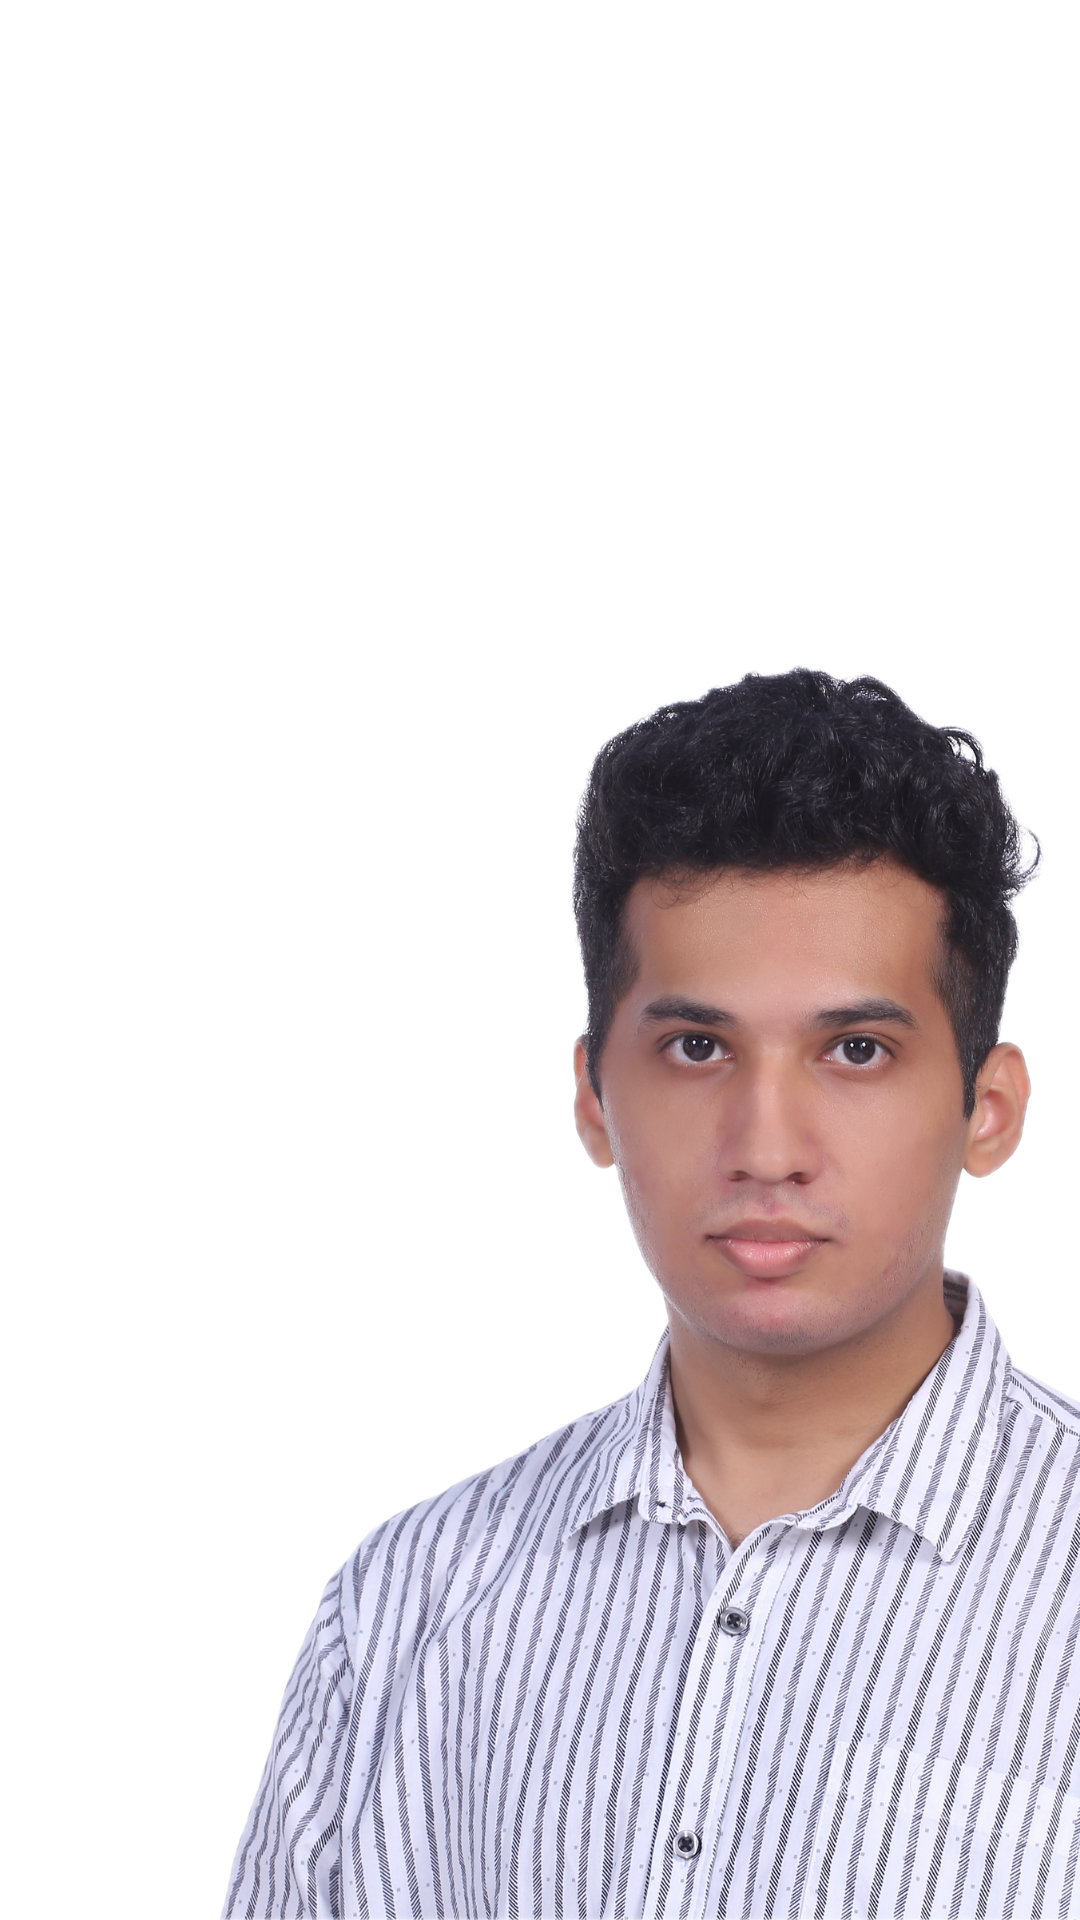
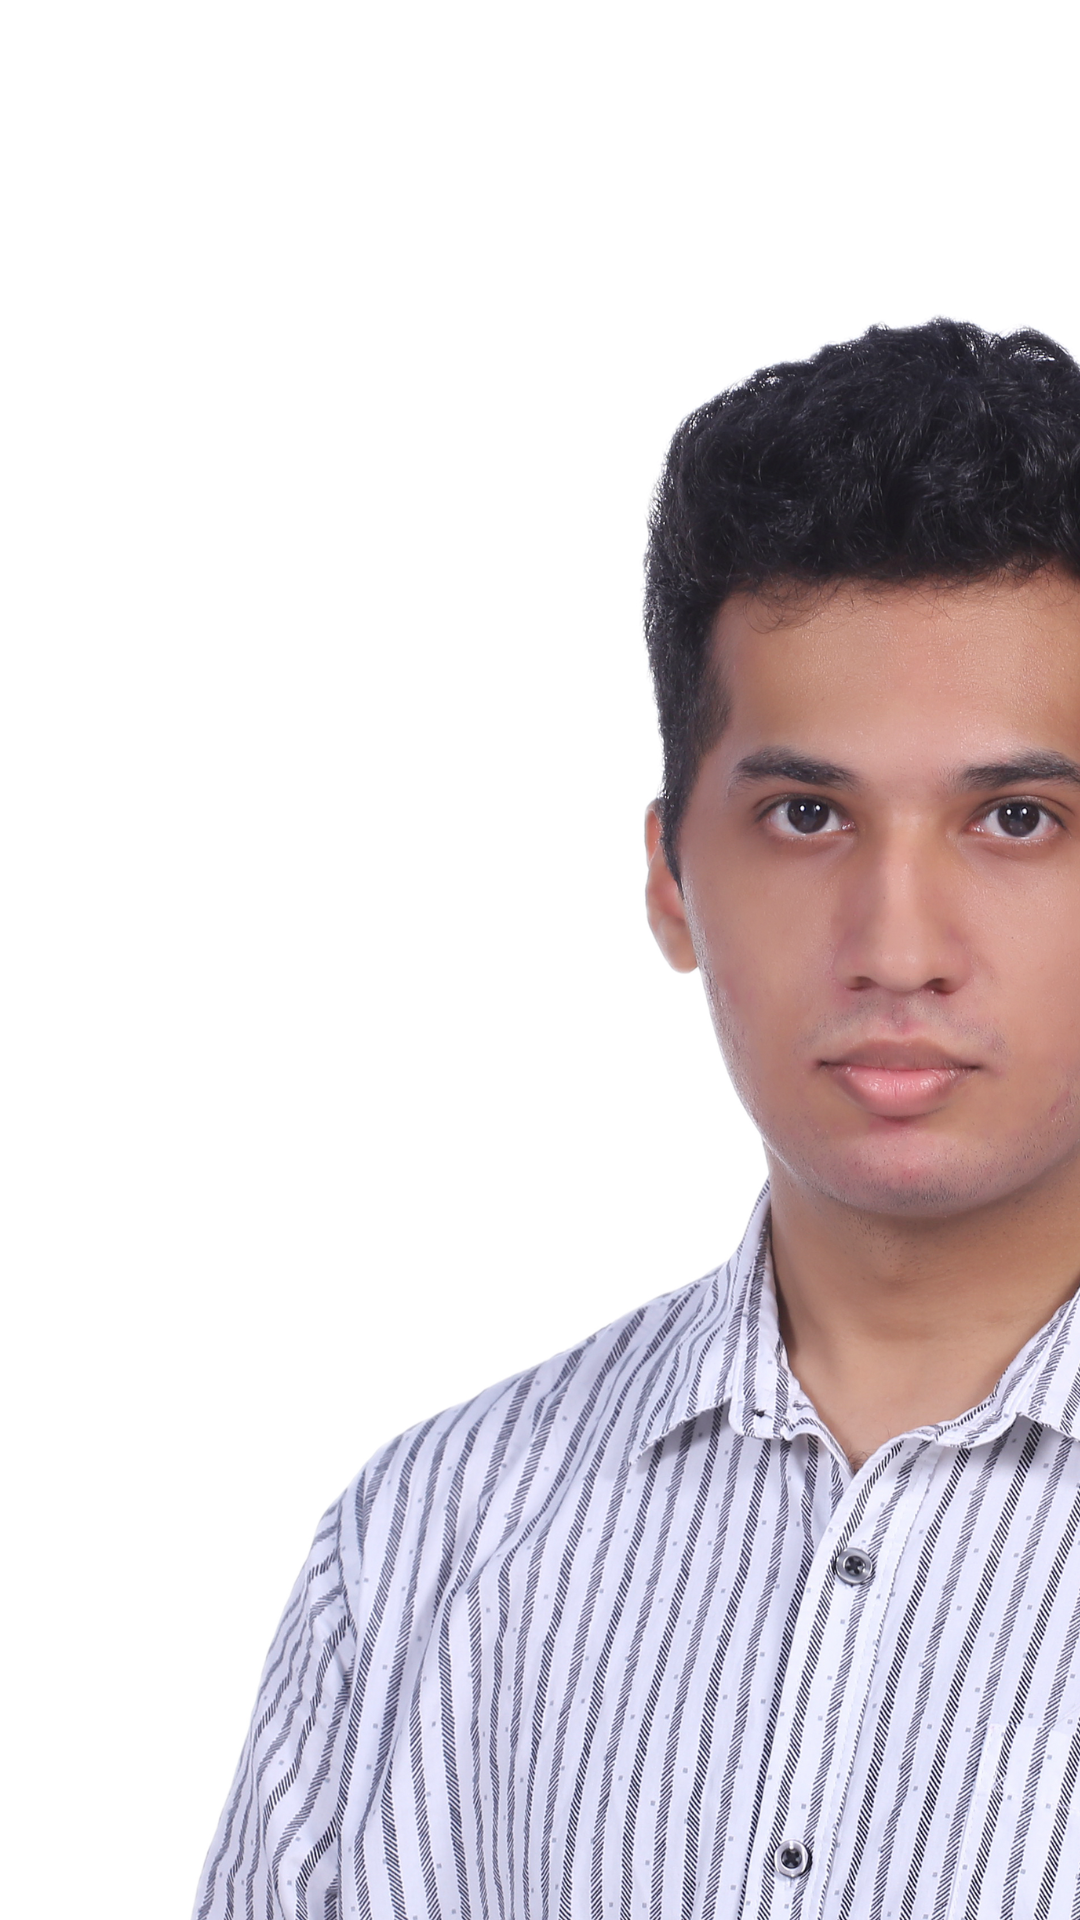
mobile background  fixed

diff --git a/style.css b/style.css
@@ -337,7 +337,7 @@ nav .fas{
     }
 
     .header-text{
-        margin-top: 100%;
+        margin-top: 130%;
         font-size: 16px;
     }
 
